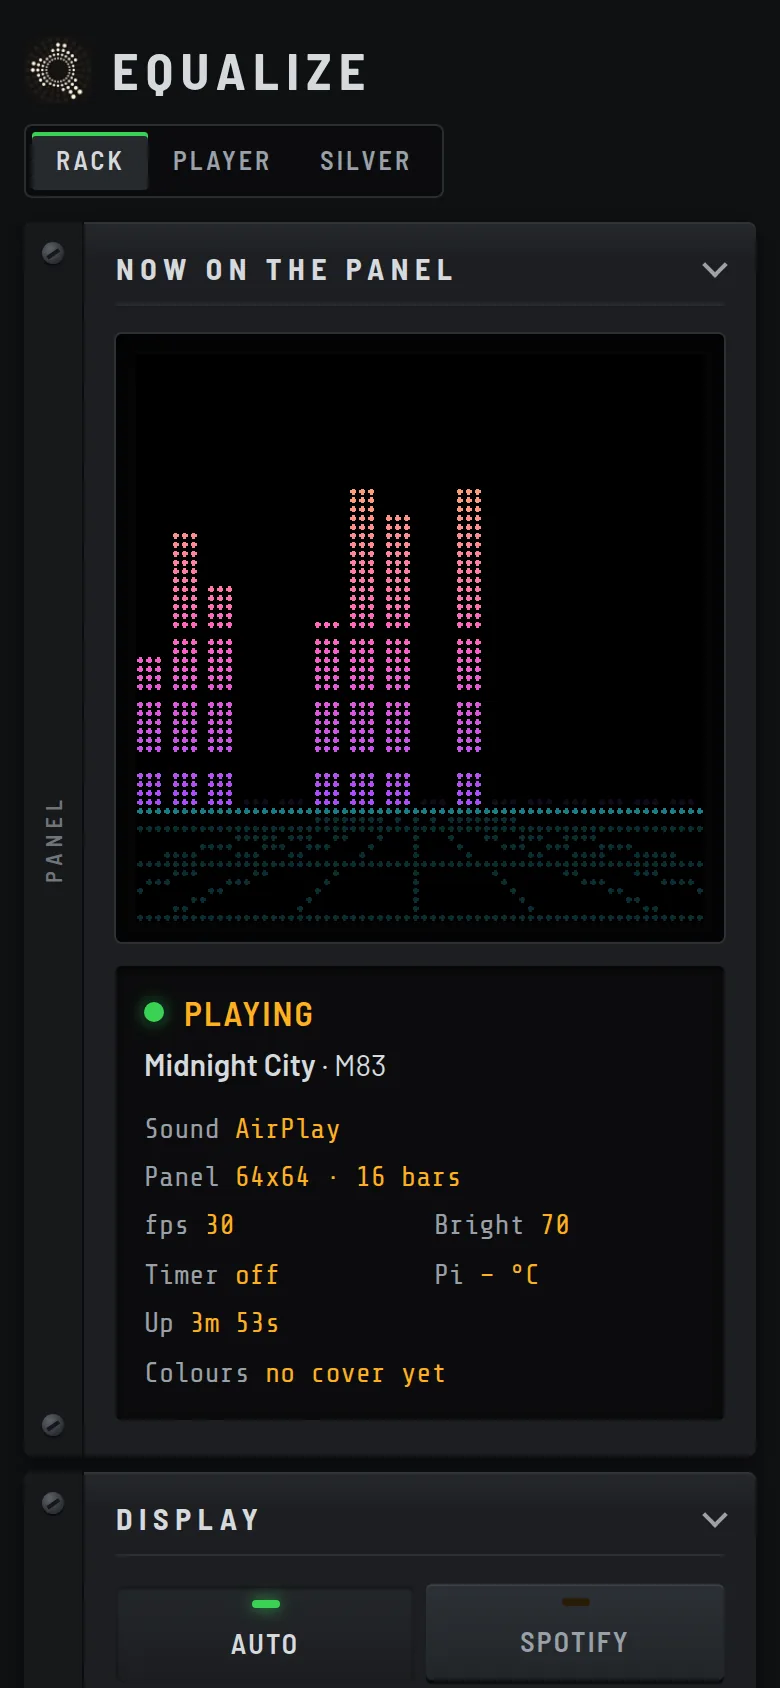
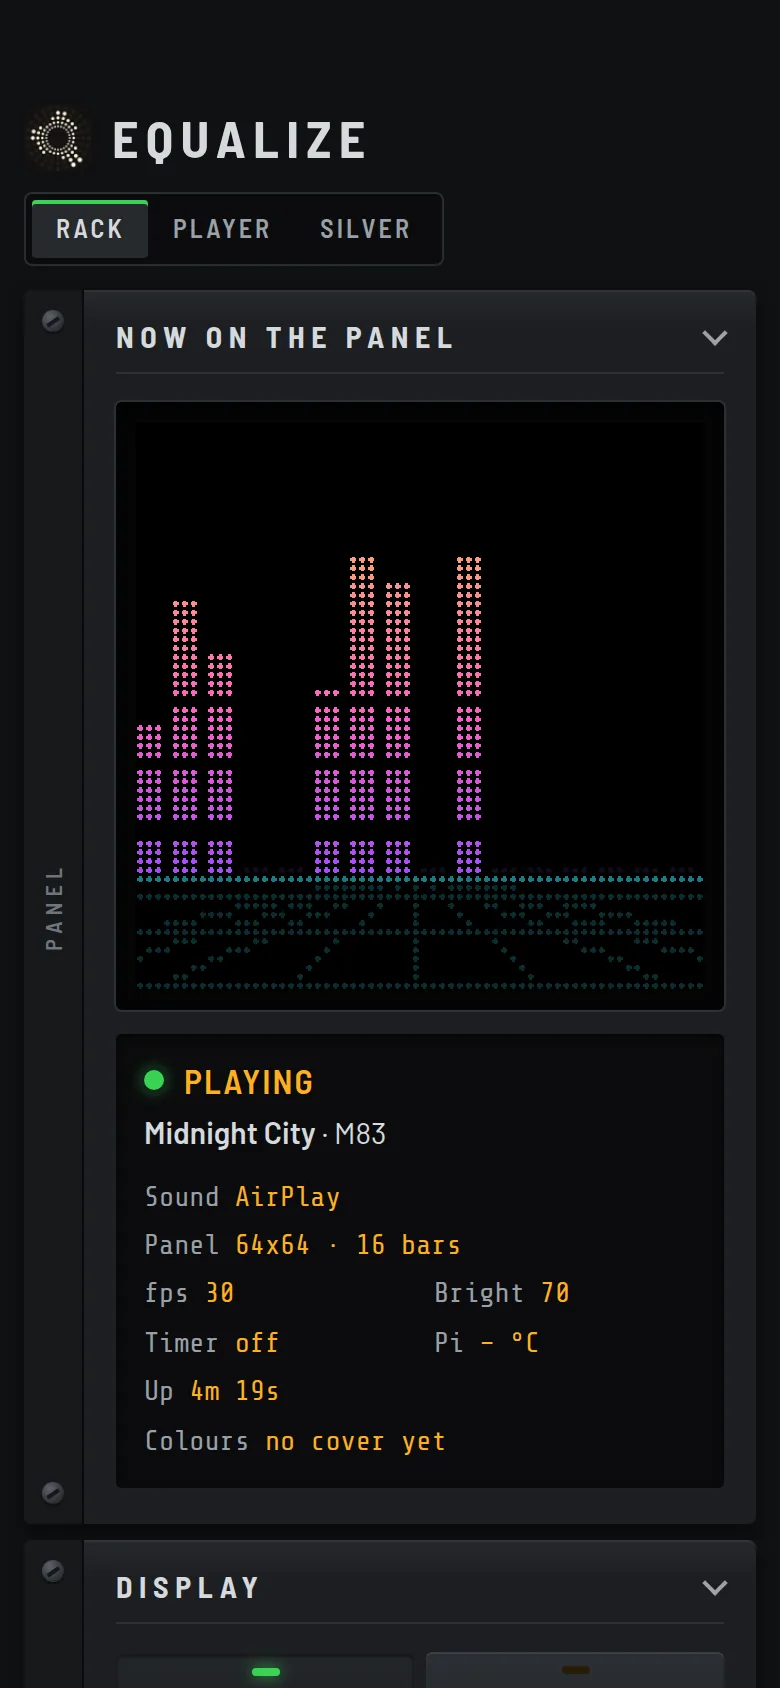
Equalize tile: give the phone a proper bezel, rounded screen and status-bar gap
Claude-Session: https://claude.ai/code/session_01Fx1Zz3yFPq6CeSowptDWSs

diff --git a/index.html b/index.html
@@ -63,6 +63,7 @@ h1,h2{margin:0;letter-spacing:-.035em;line-height:.96}
 .js .scr .nav{display:flex}.scr .nav:hover,.scr .nav:focus-visible{opacity:1;border-color:rgba(255,255,255,.7)}
 .scr .prev{left:6px}.scr .next{right:6px}
 .set .phone{flex:1 1 0;min-width:0;max-width:34%;height:auto;border:1.5px solid #2b3240;border-radius:14px;background:#000}
+.set .phone.scrn{container-type:inline-size;border:0;border-radius:0;background:none;height:auto}.scrn .bz{position:relative;background:#0b0d11;border:1.5px solid #2b3240;border-radius:15.2cqw;padding:3.8cqw;box-sizing:border-box}.scrn .bz img{display:block;width:100%;height:auto;aspect-ratio:73/158;object-fit:cover;object-position:top;border-radius:11.5cqw;background:#000}.scrn .bz::after{content:"";position:absolute;left:50%;top:5.6cqw;width:33cqw;height:6cqw;transform:translateX(-50%);border-radius:99px;background:#000}
 .sp .pic.set{flex:0 0 58%}.eq .pic.set{flex:0 0 62%}
 
 .id{grid-column:span 4;background:var(--red);color:#fff;min-height:430px}
@@ -88,7 +89,7 @@ a:focus-visible{outline:3px solid var(--saf);outline-offset:3px}
 <section class="t hero"><h1>Useful things, built on Raspberry Pis.</h1><p>LED panels that play your photos and your music, an e-paper board that tells the house when the pilot is home, and a handful of small tools that each do one job. The first is free for anyone to build.</p></section>
 <div class="t sp"><div class="tx"><span class="pill">Free &amp; open source</span><div class="ttl"><img class="ic" src="assets/spotipi-icon.png" alt="Spotipi Photo icon"><h2><a class="stretch" href="https://github.com/captaincomplex/spotipi-photo">Spotipi Photo</a></h2></div><p>A glowing picture frame for the wall: your photos, then the album cover the moment Spotify starts playing. Built on Spotipi, by Ryan Ward.</p><div class="info"><p class="meta">64×64 LED matrix · Raspberry Pi</p><span class="st live"><i></i>In use at home</span></div></div><div class="pic set"><div class="scr" data-auto="flip"><div class="rail" tabindex="0" role="group" aria-label="LED panels: scroll to compare 32 by 32 and 64 by 64"><figure class="slide"><img class="ph" src="assets/spotipi-panel32-photo.svg" alt="A photo on a 32 by 32 LED panel"><img class="cv" src="assets/spotipi-panel32.svg" alt="The album cover on a 32 by 32 LED panel"></figure><figure class="slide"><img class="ph" src="assets/spotipi-panel-photo.svg" alt="A photo on a 64 by 64 LED panel"><img class="cv" src="assets/spotipi-panel.svg" alt="The album cover on a 64 by 64 LED panel, once Spotify starts playing"></figure></div><button class="nav prev" type="button" aria-label="Previous panel">‹</button><button class="nav next" type="button" aria-label="Next panel">›</button></div><img class="phone" src="assets/spotipi-phone.svg" alt="The Spotipi control page on a phone" width="79" height="164"></div><svg class="arr" viewBox="0 0 24 24" width="26" height="26" aria-hidden="true"><path d="M7 17 17 7M8 7h9v9" fill="none" stroke="currentColor" stroke-width="2" stroke-linecap="round" stroke-linejoin="round"/></svg></div>
 <a class="t id dk" href="https://ident.xpdr.aero/"><span class="pill">Product</span><img class="lockup" src="assets/ident/lockup-on-dark.svg" alt="Ident" width="380" height="143"><div class="info"><p>The wall board that answers “when are you back?” It reads a pilot’s roster; the roster never leaves the device.</p><p class="meta">Flight-duty board · e-paper &amp; LED matrix</p><span class="st"><i></i>In active development</span></div></a>
-<div class="t eq dk"><div class="pic set"><div class="scr" data-auto="scroll"><div class="rail" tabindex="0" role="group" aria-label="Equalize styles: scroll to see more"><figure class="slide"><div class="bez"><img src="assets/equalize/style-sunset.gif" alt="Equalize style Sunset: bars standing on a neon horizon on a 64 by 64 LED panel" width="192" height="192"></div></figure><figure class="slide"><div class="bez"><img src="assets/equalize/style-ledring.gif" alt="Equalize style LED ring on a 64 by 64 LED panel" width="192" height="192" loading="lazy"></div></figure><figure class="slide"><div class="bez"><img src="assets/equalize/style-meter.gif" alt="Equalize style Meter on a 64 by 64 LED panel" width="192" height="192" loading="lazy"></div></figure><figure class="slide"><div class="bez"><img src="assets/equalize/style-dance.gif" alt="Equalize style Dance on a 64 by 64 LED panel" width="192" height="192" loading="lazy"></div></figure><figure class="slide"><div class="bez"><img src="assets/equalize/style-waterfall.gif" alt="Equalize style Waterfall on a 64 by 64 LED panel" width="192" height="192" loading="lazy"></div></figure><figure class="slide"><div class="bez"><img src="assets/equalize/style-wave.gif" alt="Equalize style Wave on a 64 by 64 LED panel" width="192" height="192" loading="lazy"></div></figure></div><button class="nav prev" type="button" aria-label="Previous style">‹</button><button class="nav next" type="button" aria-label="Next style">›</button></div><img class="phone" src="assets/equalize-phone.webp" alt="The Equalize control page on a phone, showing what is on the panel" width="390" height="844"></div><div class="tx"><div class="ttl"><img class="ic" src="assets/equalize-icon.png" alt="Equalize icon"><h2><a class="stretch" href="equalize/"><img class="wm" src="assets/equalize/equalize-wordmark-on-dark.svg" alt="Equalize" width="148" height="47"></a></h2></div><p>Watch the music. Spotify and Apple Music on an LED panel.</p><div class="info"><p class="meta">LED matrix · Raspberry Pi</p><span class="st live"><i></i>Ready for release</span></div></div><svg class="arr" viewBox="0 0 24 24" width="26" height="26" aria-hidden="true"><path d="M7 17 17 7M8 7h9v9" fill="none" stroke="currentColor" stroke-width="2" stroke-linecap="round" stroke-linejoin="round"/></svg></div>
+<div class="t eq dk"><div class="pic set"><div class="scr" data-auto="scroll"><div class="rail" tabindex="0" role="group" aria-label="Equalize styles: scroll to see more"><figure class="slide"><div class="bez"><img src="assets/equalize/style-sunset.gif" alt="Equalize style Sunset: bars standing on a neon horizon on a 64 by 64 LED panel" width="192" height="192"></div></figure><figure class="slide"><div class="bez"><img src="assets/equalize/style-ledring.gif" alt="Equalize style LED ring on a 64 by 64 LED panel" width="192" height="192" loading="lazy"></div></figure><figure class="slide"><div class="bez"><img src="assets/equalize/style-meter.gif" alt="Equalize style Meter on a 64 by 64 LED panel" width="192" height="192" loading="lazy"></div></figure><figure class="slide"><div class="bez"><img src="assets/equalize/style-dance.gif" alt="Equalize style Dance on a 64 by 64 LED panel" width="192" height="192" loading="lazy"></div></figure><figure class="slide"><div class="bez"><img src="assets/equalize/style-waterfall.gif" alt="Equalize style Waterfall on a 64 by 64 LED panel" width="192" height="192" loading="lazy"></div></figure><figure class="slide"><div class="bez"><img src="assets/equalize/style-wave.gif" alt="Equalize style Wave on a 64 by 64 LED panel" width="192" height="192" loading="lazy"></div></figure></div><button class="nav prev" type="button" aria-label="Previous style">‹</button><button class="nav next" type="button" aria-label="Next style">›</button></div><div class="phone scrn"><div class="bz"><img src="assets/equalize-phone.webp" alt="The Equalize control page on a phone, showing what is on the panel" width="390" height="844"></div></div></div><div class="tx"><div class="ttl"><img class="ic" src="assets/equalize-icon.png" alt="Equalize icon"><h2><a class="stretch" href="equalize/"><img class="wm" src="assets/equalize/equalize-wordmark-on-dark.svg" alt="Equalize" width="148" height="47"></a></h2></div><p>Watch the music. Spotify and Apple Music on an LED panel.</p><div class="info"><p class="meta">LED matrix · Raspberry Pi</p><span class="st live"><i></i>Ready for release</span></div></div><svg class="arr" viewBox="0 0 24 24" width="26" height="26" aria-hidden="true"><path d="M7 17 17 7M8 7h9v9" fill="none" stroke="currentColor" stroke-width="2" stroke-linecap="round" stroke-linejoin="round"/></svg></div>
 <a class="t pe" href="https://github.com/captaincomplex/perspective"><div class="pan"><img src="assets/perspective/perspective-wordmark-on-dark.svg" alt="Perspective" width="173" height="36"></div><p>Finds the well-composed photos in Apple Photos and gathers them into an album.</p><div class="info"><p class="meta">Apple Photos · Python · macOS</p><span class="st live"><i></i>Available</span></div><svg class="arr" viewBox="0 0 24 24" width="26" height="26" aria-hidden="true"><path d="M7 17 17 7M8 7h9v9" fill="none" stroke="currentColor" stroke-width="2" stroke-linecap="round" stroke-linejoin="round"/></svg></a>
 </main>
 <main class="g" id="tools" style="margin-top:14px">
